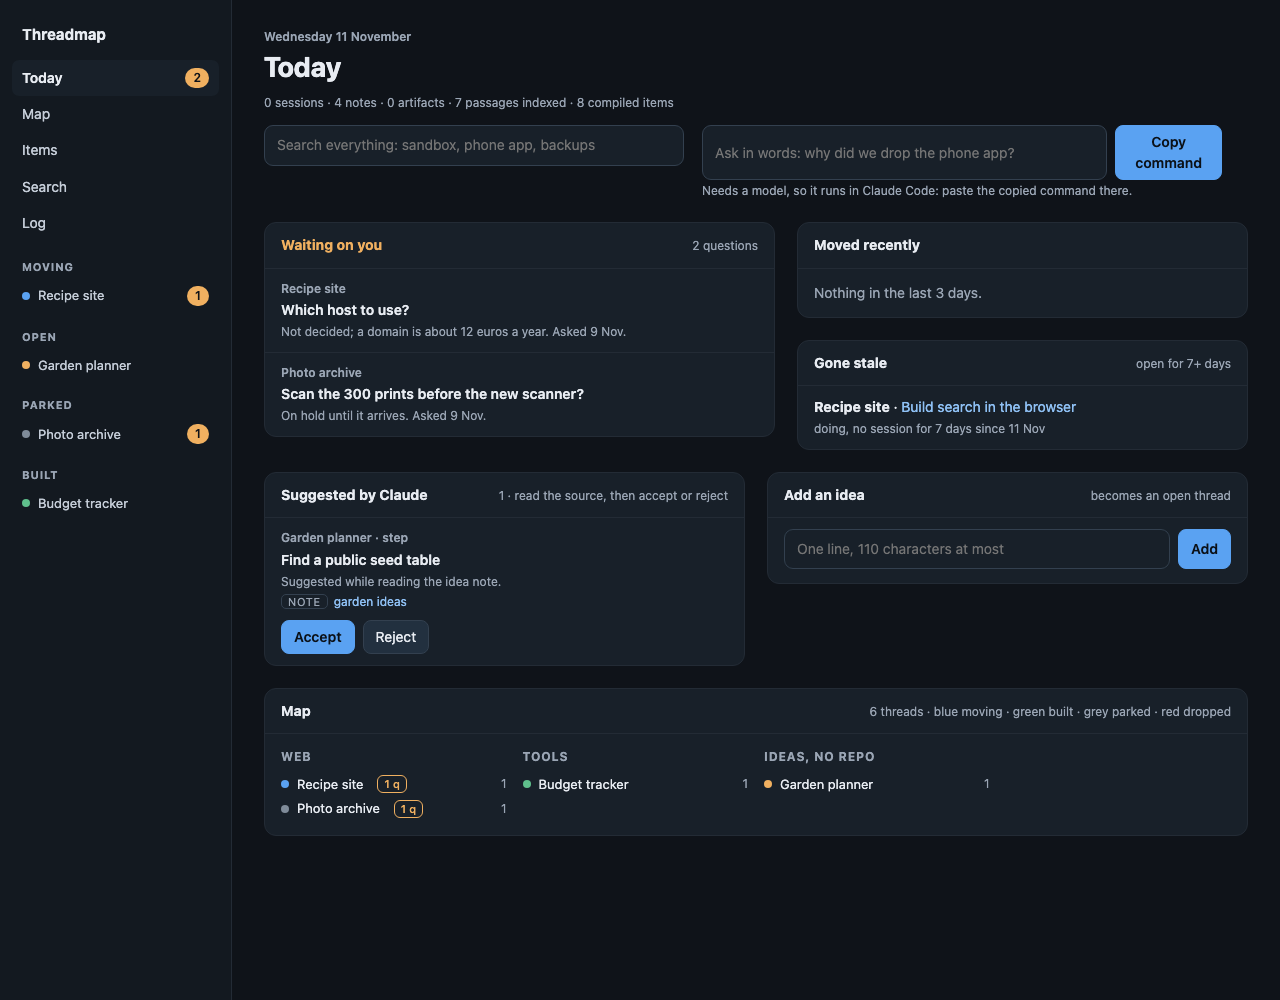
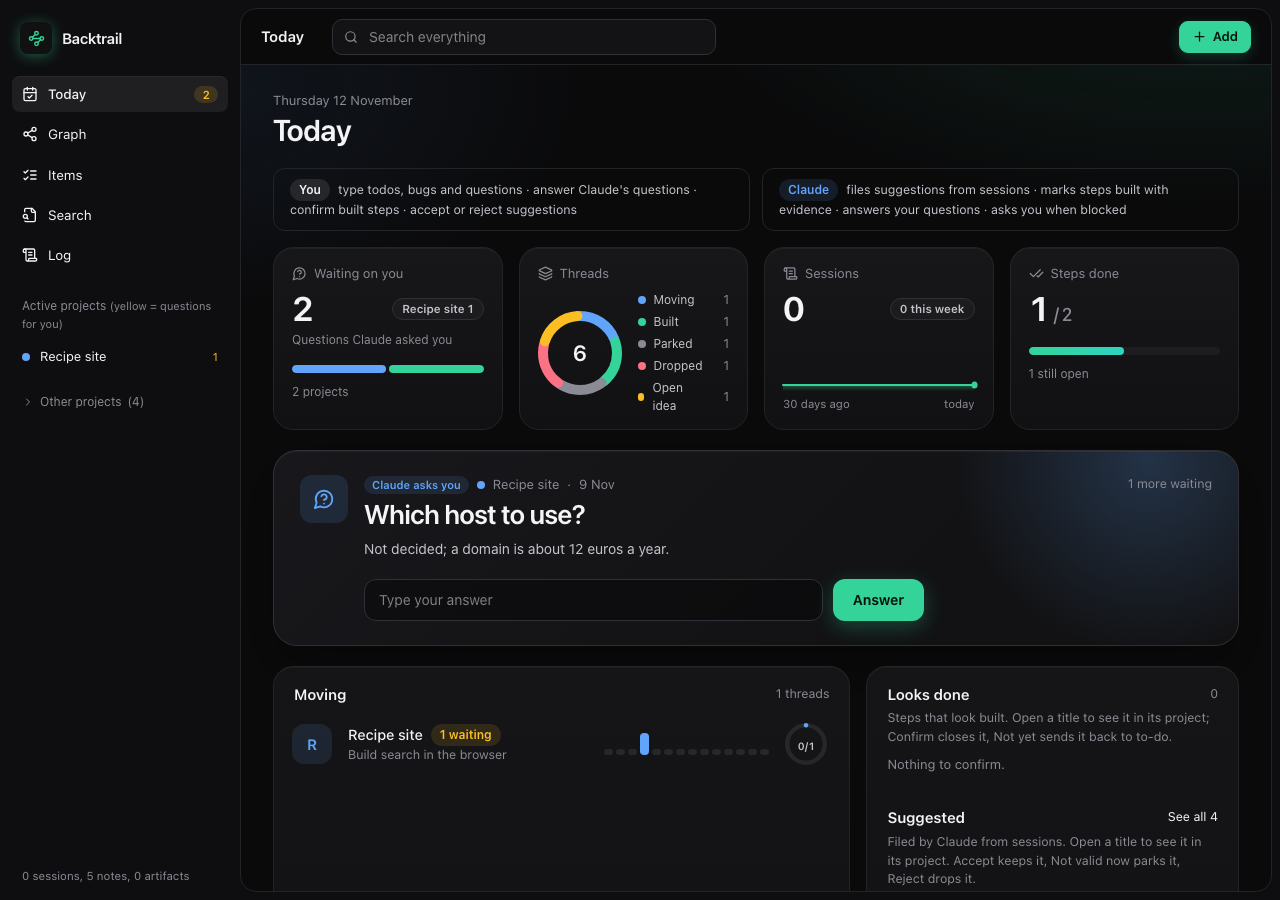
Regenerate demo screenshots, document source layout
Screenshots come from the demo store (invented content). The old Map
screenshot is removed; Graph screenshots are added.

diff --git a/docs/reference.md b/docs/reference.md
@@ -99,8 +99,8 @@ Written from the steps used on the development machine. Not yet run on a second 
      It does not call a model. Setting `BACKTRAIL_COMPILE_ON_END=1` in the hook's environment also compiles the
      session with a small model, which costs tokens.
 
-A demo store with invented content: `BACKTRAIL_HOME=/tmp/tm-demo backtrail demo`, then
-`BACKTRAIL_HOME=/tmp/tm-demo backtrail serve --port 8800`. Screenshots from it are in `docs/demo/`.
+A demo store with invented content: `BACKTRAIL_HOME=/tmp/bt-demo backtrail demo`, then
+`BACKTRAIL_HOME=/tmp/bt-demo backtrail serve --port 8800`. Screenshots from it are in `docs/demo/`.
 
 ## Scale limits
 
@@ -113,6 +113,12 @@ unchanged: vectors are compared by brute force over an in-memory copy (about 36 
 passages, a few hundred thousand passages at most before it needs an index); `graph()` rebuilds the whole graph per
 request with one FTS query per thread; the item index is rebuilt in memory whenever items change. None of these has
 been measured beyond the present store.
+
+## Source layout
+
+Rust code is formatted with `cargo fmt`. Longer SQL statements are in `src/sql/*.sql` and loaded with `include_str!`; the
+first line of each file names the function that uses it. A few use `{where}`, `{limit}`, `{exclude}` or `{ids}` markers
+that the caller replaces. Short statements stay inline.
 
 ## Other limits
 

diff --git a/README.md b/README.md
@@ -27,6 +27,15 @@ Status: prototype. Tested on macOS only.
 - Network: none from the binary unless `embeddings` is configured, which sends passage and query text to the
   configured URL. `compile.sh` runs the `claude` CLI, which sends session text to the model provider.
 
+## Screenshots
+
+Taken from the demo store (`backtrail demo`), which holds invented content.
+
+| | |
+| --- | --- |
+| ![Today](docs/demo/today.png) | ![Graph](docs/demo/graph.png) |
+| ![Project](docs/demo/thread.png) | ![Graph with an entity selected](docs/demo/graph-selected.png) |
+
 ## Requirements
 
 - Rust toolchain (edition 2024) and Node.js
